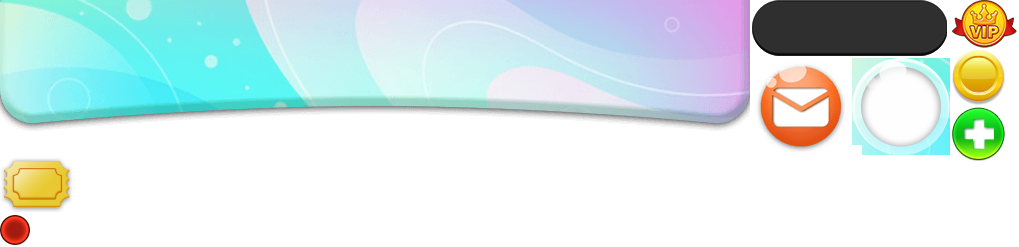
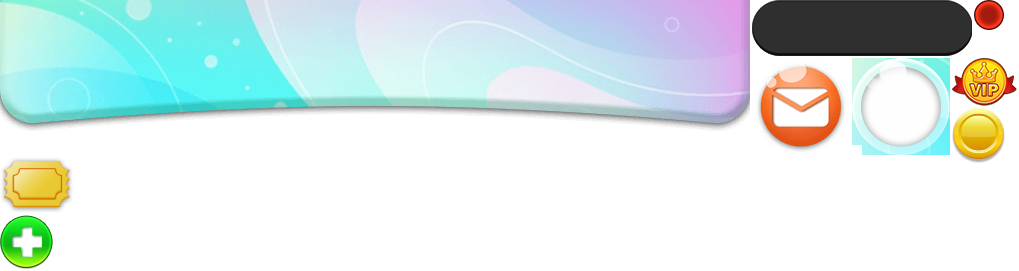
plus ui

diff --git a/src/pagePart/head-bar/head-bar.component.ts b/src/pagePart/head-bar/head-bar.component.ts
@@ -20,6 +20,7 @@ export class HeadBarComponent extends UIComponent {
   letter!: BitmapData;
   coin!: BitmapData;
   ticket!: BitmapData;
+  plus!: BitmapData;
 
   constructor(public http: HttpClient, private user: UserDataService) {
     super(http);
@@ -36,5 +37,6 @@ export class HeadBarComponent extends UIComponent {
     this.letter = this.topbarTexture.getTexture( "btn_letter", 640, 10 );
     this.coin = this.topbarTexture.getTexture( "icon_coin", 158, 23 );
     this.ticket = this.topbarTexture.getTexture( "icon_ticket", 404, 21 );
+    this.plus = this.topbarTexture.getTexture( "btn_plus", 322, 22 );
   }
 }

diff --git a/src/pagePart/head-bar/head-bar.component.html b/src/pagePart/head-bar/head-bar.component.html
@@ -10,4 +10,5 @@
   <app-image [imgData]="letter"></app-image>
   <app-image [imgData]="coin"></app-image>
   <app-image [imgData]="ticket"></app-image>
+  <app-image [imgData]="plus"></app-image>
 </div>

diff --git a/src/pagePart/head-bar/head-bar.component.css b/src/pagePart/head-bar/head-bar.component.css
@@ -1,5 +1,7 @@
 .head{
   position: absolute;
+  top: 0px;
+  left: 0px;
 }
 .facebookHead{
   position: absolute;
